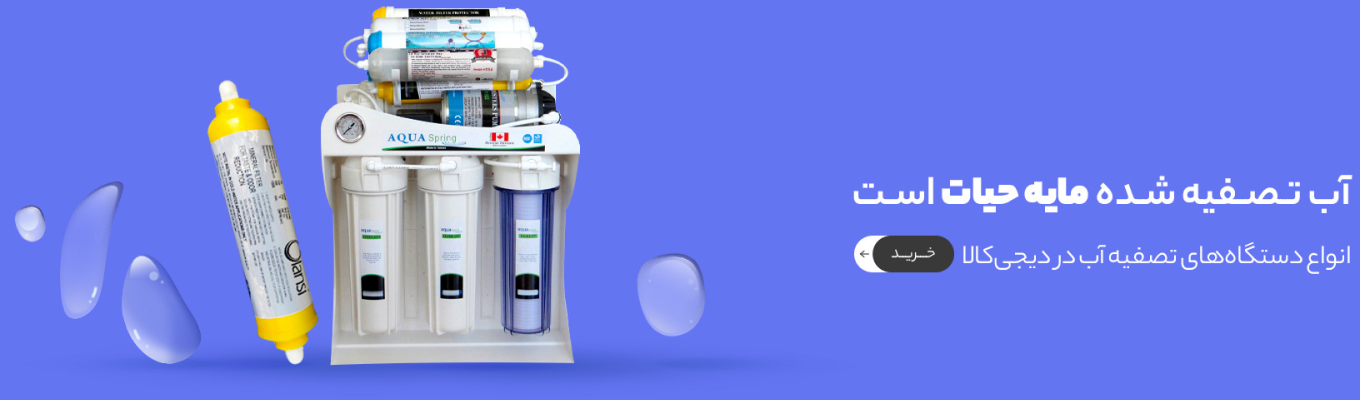
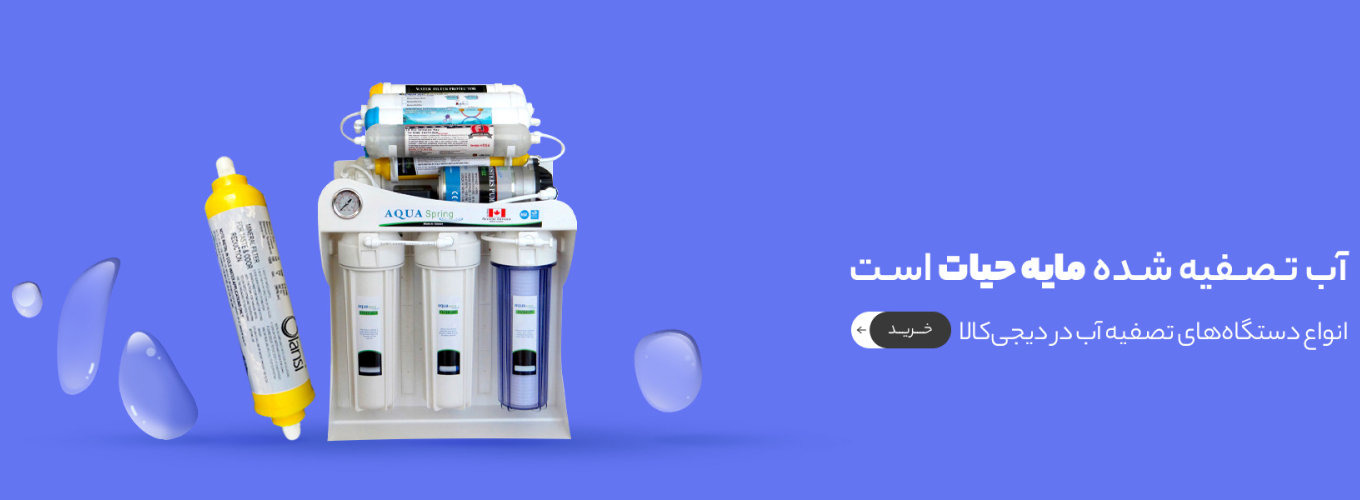
slider test

diff --git a/src/Components/Home/Home.js b/src/Components/Home/Home.js
@@ -1,10 +1,11 @@
 import { Autoplay, Navigation, Pagination } from "swiper";
 import { Swiper , SwiperSlide } from "swiper/react";
+import Styles from "./Home.module.css" ;
 import "./Home.css" ;
 import "swiper/css" ;
 import "swiper/css/navigation" ;
 // import "swiper/css/pagination" ;
-import slide1 from "../../Image/slider/slide1.png" ;
+import slide1 from "../../Image/slider/slide1.jpg" ;
 import slide2 from "../../Image/slider/slide2.jpg" ;
 
 const Home = () => {
@@ -30,17 +31,17 @@ const Home = () => {
 
     return (
         <main className="max-w-[1366px] w-full h-[2000px]">
-            <section className="max-w-[2000px]">
+            <section className="h-[250px] lg:h-[300px] xl:h-[400px]">
                 <Swiper
                     loop={true}
                     autoplay={autoplay}
                     navigation={navigation} 
                     pagination={pagination} 
                     modules={[Navigation , Pagination,Autoplay]} 
-                    className="relative"
+                    className="relative h-full"
                 >
                     {slider.map(item => (
-                        <SwiperSlide key={item.id}>
+                        <SwiperSlide className={Styles.slide} key={item.id}>
                             <img className="max-w-full h-full" src={item.src} alt={item.title} />
                         </SwiperSlide>
                     ))}

diff --git a/src/Components/Header/ResponseHeader/ResponseHeader.js b/src/Components/Header/ResponseHeader/ResponseHeader.js
@@ -49,7 +49,7 @@ const ResponseHeader = () => {
                     </Link>
                 </div>
             </div>
-            <div className="header-child">
+            <div className="header-child border-none">
                 <div className="location w-full">
                     <Link to="/" className="w-full flex justify-between py-3">
                         <div className="flex">

diff --git a/src/Components/Home/Home.module.css b/src/Components/Home/Home.module.css
@@ -1,0 +1,3 @@
+.slide img {
+    object-fit: cover ;
+}
